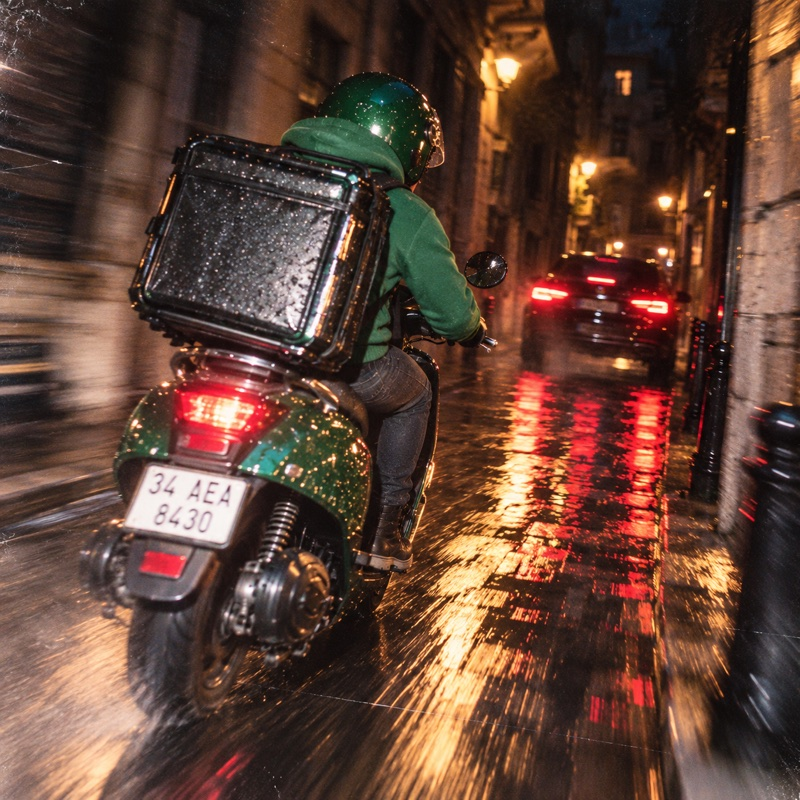
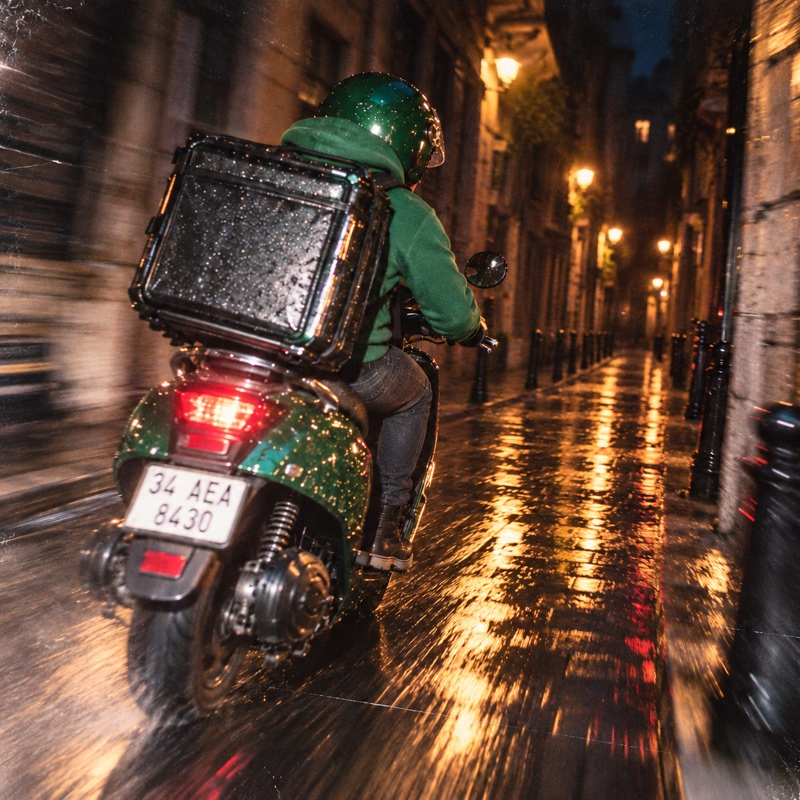
SB4 polaroid: kaçış karesinde öndeki araba kaldırıldı

diff --git a/index.html b/index.html
@@ -11,7 +11,7 @@
   <link rel="manifest" href="manifest.webmanifest">
   <link rel="icon" href="assets/icon.svg" type="image/svg+xml">
   <title>CİCO — Gece Vardiyası</title>
-  <link rel="stylesheet" href="src/ui/styles.css?v=202610211812">
+  <link rel="stylesheet" href="src/ui/styles.css?v=202610211815">
 </head>
 <body>
   <div class="device">
@@ -59,14 +59,14 @@
   </div>
 
   <!-- Sıra önemli: motor → veri → diller → arayüz. Yeni dil: src/i18n/<kod>.js ekleyip buraya yazın. -->
-  <script src="src/engine/engine.js?v=202610211812"></script>
-  <script src="src/engine/i18n.js?v=202610211812"></script>
-  <script src="src/engine/validate.js?v=202610211812"></script>
-  <script src="src/story/chapter1.js?v=202610211812"></script>
-  <script src="src/i18n/tr.js?v=202610211812"></script>
-  <script src="src/i18n/en.js?v=202610211812"></script>
-  <script src="src/ui/media.js?v=202610211812"></script>
-  <script src="src/ui/flowchart.js?v=202610211812"></script>
-  <script src="src/ui/app.js?v=202610211812"></script>
+  <script src="src/engine/engine.js?v=202610211815"></script>
+  <script src="src/engine/i18n.js?v=202610211815"></script>
+  <script src="src/engine/validate.js?v=202610211815"></script>
+  <script src="src/story/chapter1.js?v=202610211815"></script>
+  <script src="src/i18n/tr.js?v=202610211815"></script>
+  <script src="src/i18n/en.js?v=202610211815"></script>
+  <script src="src/ui/media.js?v=202610211815"></script>
+  <script src="src/ui/flowchart.js?v=202610211815"></script>
+  <script src="src/ui/app.js?v=202610211815"></script>
 </body>
 </html>
